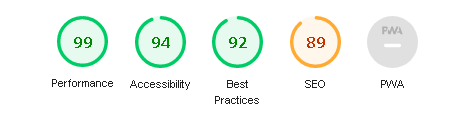
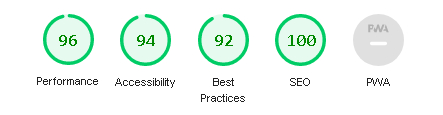
Add modified desktop lighthouse score img

diff --git a/index.html b/index.html
@@ -4,6 +4,9 @@
 <head>
     <meta charset="UTF-8">
     <meta name="viewport" content="width=device-width, initial-scale=1.0">
+    <!-- Meta tags for search engines -->
+    <meta name="description" content="JavaScript Online Quiz. JavaScript game, learn JavaScript, JavaScript multiple questions">
+    <meta name="keywords" content="JavaScript online quiz, JavaScript, game, exercise">
 
     <!-- External stylesheet links for styling -->
     <link rel="stylesheet" href="https://cdnjs.cloudflare.com/ajax/libs/font-awesome/6.0.0/css/all.min.css"
